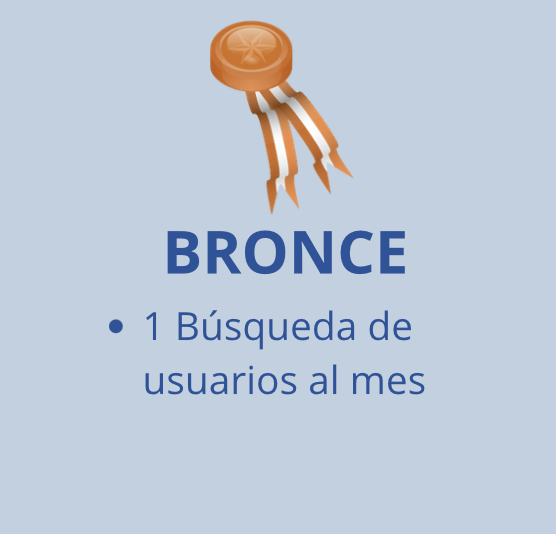
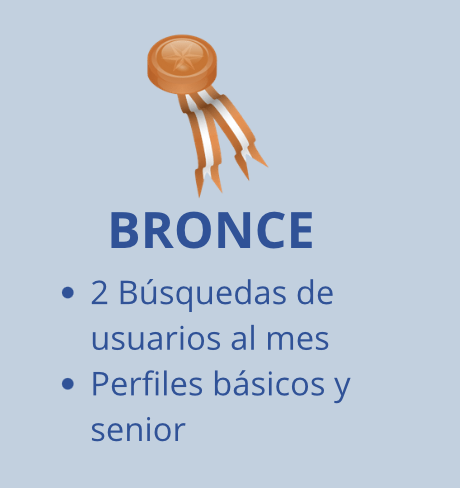
Actualización de modificar perfil

diff --git a/agileICT/frontend/src/components/LoginForm.jsx b/agileICT/frontend/src/components/LoginForm.jsx
@@ -20,25 +20,46 @@ const LoginForm = ({ onClose }) => {
         params.append('email', formData.email);
         params.append('password', formData.password);
 
+        // try {
+        //     const response = await fetch('http://localhost:8080/api/login', {
+        //         method: 'POST',
+        //         headers: { 'Content-Type': 'application/x-www-form-urlencoded' },
+        //         body: params
+        //     });
+
+        //     const result = await response.text();
+
+        //     if (result === 'profesional' || result === 'empresa') {
+        //         login({ email: formData.email, type: result }); // Llama al login del contexto
+
+        //         navigate(result === 'profesional' ? '/inicio-profesional' : '/inicio-empresa');
+        //     } else {
+        //         alert("Correo o contraseña incorrectos");
+        //     }
+        // } catch (error) {
+        //     console.error("Error en el login:", error);
+        //     alert("Error de conexión con el servidor");
+        // }
         try {
-            const response = await fetch('http://localhost:8080/api/login', {
-                method: 'POST',
-                headers: { 'Content-Type': 'application/x-www-form-urlencoded' },
+            const response = await fetch("http://localhost:8080/api/login", {
+                method: "POST",
+                headers: { "Content-Type": "application/x-www-form-urlencoded" },
                 body: params
             });
-
-            const result = await response.text();
-
-            if (result === 'profesional' || result === 'empresa') {
-                login({ email: formData.email, type: result }); // Llama al login del contexto
-
-                navigate(result === 'profesional' ? '/inicio-profesional' : '/inicio-empresa');
-            } else {
+    
+            if (!response.ok) {
                 alert("Correo o contraseña incorrectos");
+                return;
             }
+    
+            const { tipo, usuario } = await response.json(); // Extrae el tipo y el usuario
+    
+            login({ ...usuario, tipo }); // Guarda el usuario con el tipo en el contexto
+    
+            navigate(tipo === "profesional" ? "/inicio-profesional" : "/inicio-empresa");
         } catch (error) {
-            console.error("Error en el login:", error);
-            alert("Error de conexión con el servidor");
+            console.error("Error al iniciar sesión:", error);
+            alert("Ocurrió un error al intentar iniciar sesión.");
         }
     };
 

diff --git a/agileICT/frontend/src/components/RegisterProfesional.jsx b/agileICT/frontend/src/components/RegisterProfesional.jsx
@@ -62,23 +62,44 @@ const RegisterProfesional = () => {
         // Extraer confirmPassword del objeto para no enviarlo al backend
         const { confirmPassword, ...dataToSend } = formData;
 
+        // try {
+        //     const response = await fetch("http://localhost:8080/api/professionals/register", {
+        //         method: 'POST',
+        //         headers: { 'Content-Type': 'application/json' },
+        //         body: JSON.stringify(dataToSend)
+        //     });
+
+        //     if (response.ok) {
+        //         const data = await response.json();
+        //         console.log("Profesional registrado:", data);
+        //         login({ email: formData.email, type: 'profesional' }); // Llama al login del contexto
+        //         navigate('/inicio-profesional');
+        //     } else {
+        //         console.error("Error en el registro del profesional");
+        //     }
+        // } catch (error) {
+        //     console.error("Error:", error);
+        // }
         try {
             const response = await fetch("http://localhost:8080/api/professionals/register", {
                 method: 'POST',
                 headers: { 'Content-Type': 'application/json' },
                 body: JSON.stringify(dataToSend)
             });
-
-            if (response.ok) {
-                const data = await response.json();
-                console.log("Profesional registrado:", data);
-                login({ email: formData.email, type: 'profesional' }); // Llama al login del contexto
-                navigate('/inicio-profesional');
-            } else {
-                console.error("Error en el registro del profesional");
+    
+            if (!response.ok) {
+                alert("Error en el registro de la empresa");
+                return;
             }
+    
+            const { tipo, usuario } = await response.json(); // Extraer tipo y usuario de la respuesta
+    
+            login({ ...usuario, tipo }); // Guardar en el contexto
+    
+            navigate("/inicio-profesional");
         } catch (error) {
             console.error("Error:", error);
+            alert("Ocurrió un error al registrar el profesional.");
         }
     };
 

diff --git a/agileICT/frontend/src/components/RegisterEmpresa.jsx b/agileICT/frontend/src/components/RegisterEmpresa.jsx
@@ -66,21 +66,42 @@ const RegistroEmpresa = () => {
 
         const { confirmPassword, ...dataToSend } = formData;
 
+        // try {
+        //     const response = await fetch("http://localhost:8080/api/companies/register", {
+        //         method: 'POST',
+        //         headers: { 'Content-Type': 'application/json' },
+        //         body: JSON.stringify(dataToSend)
+        //     });
+
+        //     if (response.ok) {
+        //         login({ email: formData.email, type: 'empresa' }); // Llama al login del contexto
+        //         navigate('/inicio-empresa');
+        //     } else {
+        //         alert('Error en el registro de la empresa');
+        //     }
+        // } catch (error) {
+        //     console.error("Error:", error);
+        // }
         try {
             const response = await fetch("http://localhost:8080/api/companies/register", {
-                method: 'POST',
-                headers: { 'Content-Type': 'application/json' },
+                method: "POST",
+                headers: { "Content-Type": "application/json" },
                 body: JSON.stringify(dataToSend)
             });
-
-            if (response.ok) {
-                login({ email: formData.email, type: 'empresa' }); // Llama al login del contexto
-                navigate('/inicio-empresa');
-            } else {
-                alert('Error en el registro de la empresa');
+    
+            if (!response.ok) {
+                alert("Error en el registro de la empresa");
+                return;
             }
+    
+            const { tipo, usuario } = await response.json(); // Extraer tipo y usuario de la respuesta
+    
+            login({ ...usuario, tipo }); // Guardar en el contexto
+    
+            navigate("/inicio-empresa");
         } catch (error) {
             console.error("Error:", error);
+            alert("Ocurrió un error al registrar la empresa.");
         }
     };
 

diff --git a/agileICT/frontend/src/components/EditarPerfil.jsx b/agileICT/frontend/src/components/EditarPerfil.jsx
@@ -1,10 +1,11 @@
 import React, { useState } from 'react';
-import { Link } from 'react-router-dom';
+import { Link, useNavigate } from 'react-router-dom';
 import { useAuth } from '../context/AuthContext';
 import '../EditarPerfil.css';
 
 const EditarPerfil = () => {
     const { user } = useAuth();
+    const navigate = useNavigate(); // Hook para navegar entre páginas
     const [menuOpen, setMenuOpen] = useState(false);
     const [formData, setFormData] = useState({ ...user });
 
@@ -22,6 +23,10 @@ const EditarPerfil = () => {
             ...prev,
             [name]: type === 'checkbox' ? checked : value
         }));
+    };
+
+    const handleBack = () => {
+        navigate('/mi-perfil'); // Navegar a la página de perfil
     };
 
     const handleSave = async () => {
@@ -49,7 +54,7 @@ const EditarPerfil = () => {
         <div className="editar-perfil-container">
             <div className="editar-perfil-card">
                 <h1 className="editar-perfil-title">Editar Perfil</h1>
-                {user.type === 'empresa' ? (
+                {user.tipo === 'empresa' ? (
                     <div className="editar-perfil-info">
                         <button className="toggle-btn" onClick={toggleMenu}>☰</button>
                         <div className={`sidebar ${menuOpen ? 'open' : ''}`}>
@@ -145,6 +150,9 @@ const EditarPerfil = () => {
                     </div>
                 )}
                 <button className="editar-perfil-save-btn" onClick={handleSave}>Guardar Cambios</button>
+                <button className="editar-perfil-back-btn" onClick={handleBack}>
+                        Volver
+                    </button>
             </div>
         </div>
     );

diff --git a/agileICT/frontend/src/components/MiPerfil.jsx b/agileICT/frontend/src/components/MiPerfil.jsx
@@ -28,7 +28,7 @@ const MiPerfil = () => {
         <div className="mi-perfil-container">
             <div className="mi-perfil-card">
                 <h1 className="mi-perfil-title">Mi Perfil</h1>
-                {user.type === 'empresa' ? (
+                {user.tipo === 'empresa' ? (
                     <div className="mi-perfil-info">
                         <button className="toggle-btn" onClick={toggleMenu}>☰</button>
                         <div className={`sidebar ${menuOpen ? 'open' : ''}`}>
@@ -63,7 +63,7 @@ const MiPerfil = () => {
                         <p><strong>Apellidos:</strong> {user.apellidos || 'Apellidos no disponibles'}</p>
                         <p><strong>Email:</strong> {user.email}</p>
                         <p><strong>Teléfono:</strong> {user.telefono || 'Teléfono no disponible'}</p>
-                        <p><strong>Profesión:</strong> {user.profesion || 'Profesión no disponible'}</p>
+                        <p><strong>Estudios:</strong> {user.estudios || 'Profesión no disponible'}</p>
                         <p><strong>Descripción:</strong> {user.descripcion || 'Descripción no disponible'}</p>
                         <p><strong>Quiero recibir ofertas:</strong> {user.recibeOfertas || 'Ofertas no disponible'}</p>
 

diff --git a/agileICT/frontend/src/EditarPerfil.css b/agileICT/frontend/src/EditarPerfil.css
@@ -47,6 +47,13 @@
     font-size: 1rem;
 }
 
+/* Botones */
+.editar-perfil-buttons {
+    display: flex;
+    justify-content: space-between;
+    margin-top: 1.5rem;
+}
+
 /* Botón de guardar */
 .editar-perfil-save-btn {
     display: block;
@@ -63,4 +70,13 @@
 
 .editar-perfil-save-btn:hover {
     background-color: #1e3a8a; /* Azul más oscuro */
+}
+
+.editar-perfil-back-btn {
+    background-color: #e5e7eb; /* Gris claro */
+    color: #333;
+}
+
+.editar-perfil-back-btn:hover {
+    background-color: #d1d5db; /* Gris más oscuro */
 }
